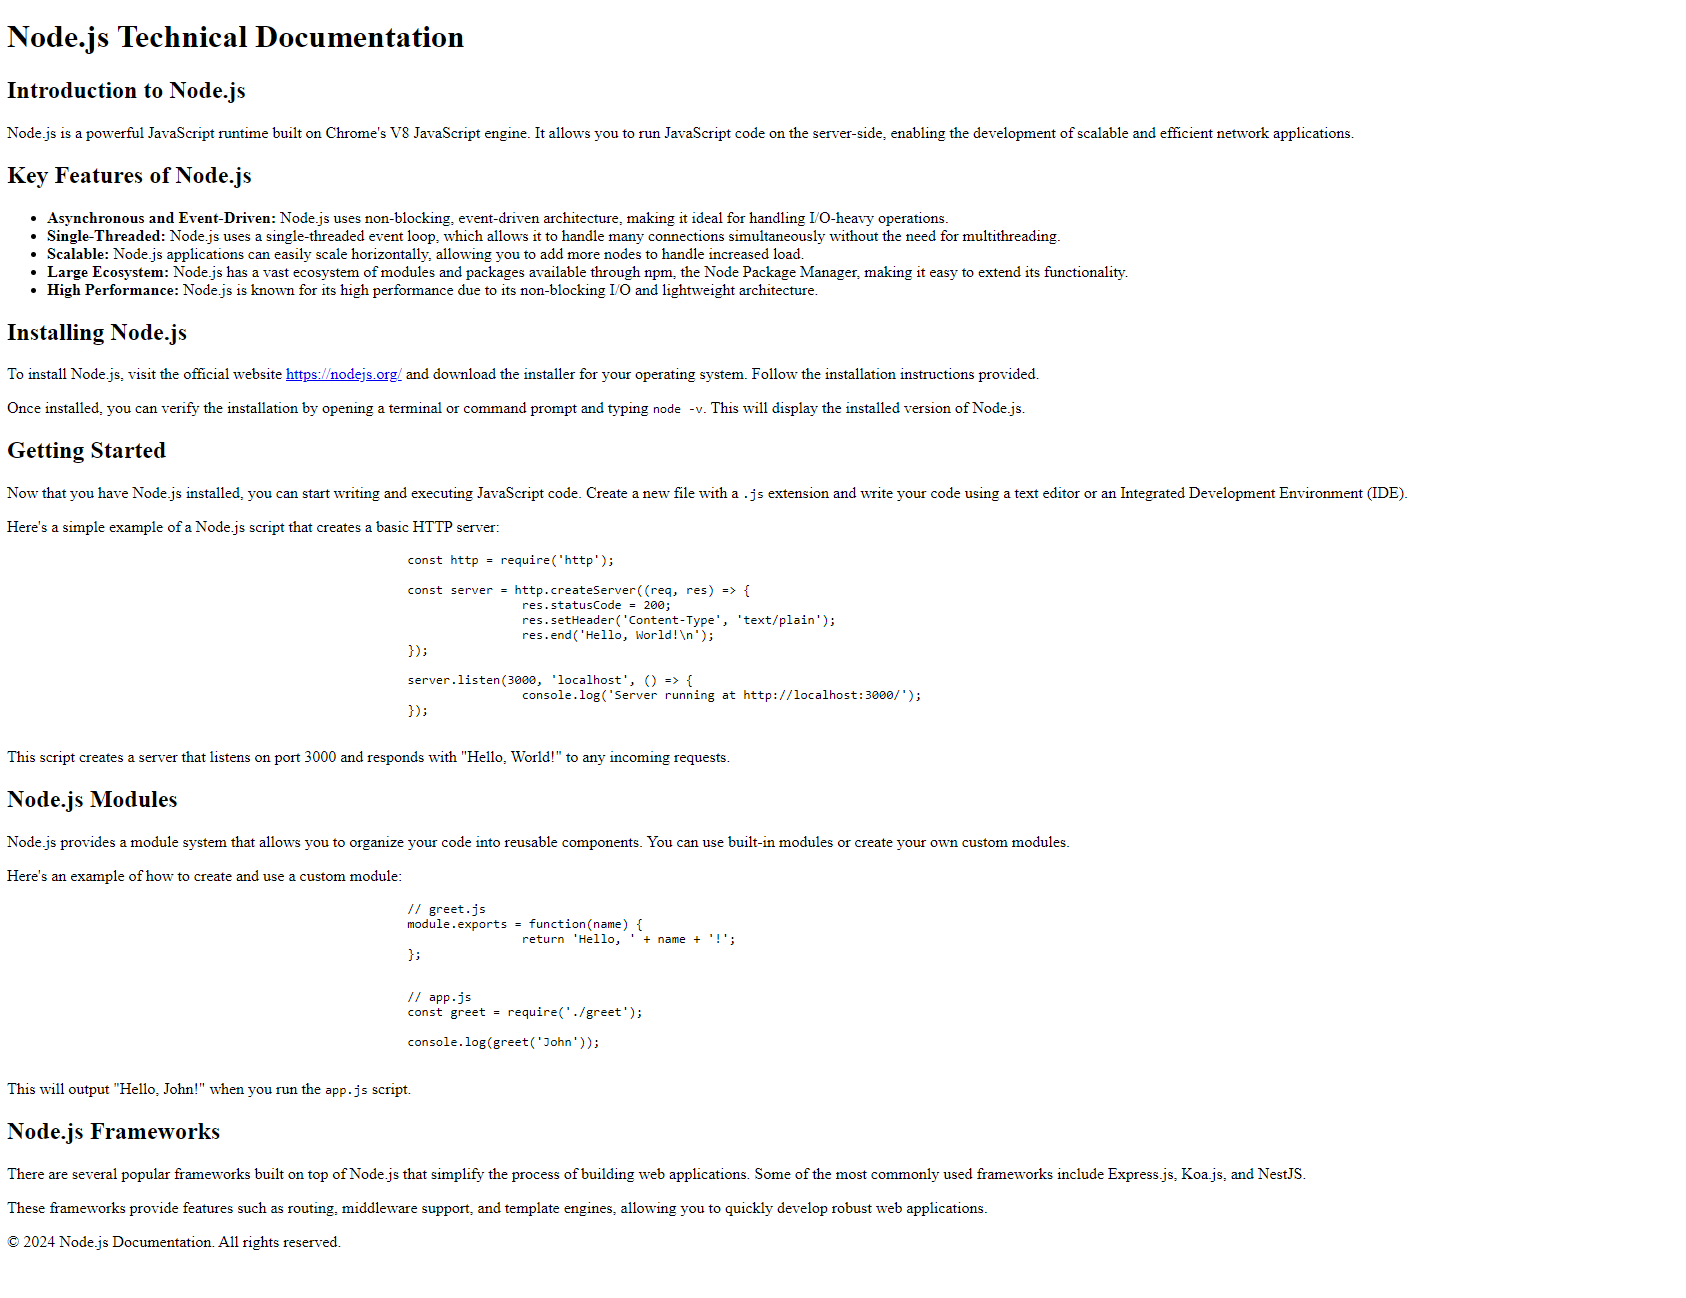
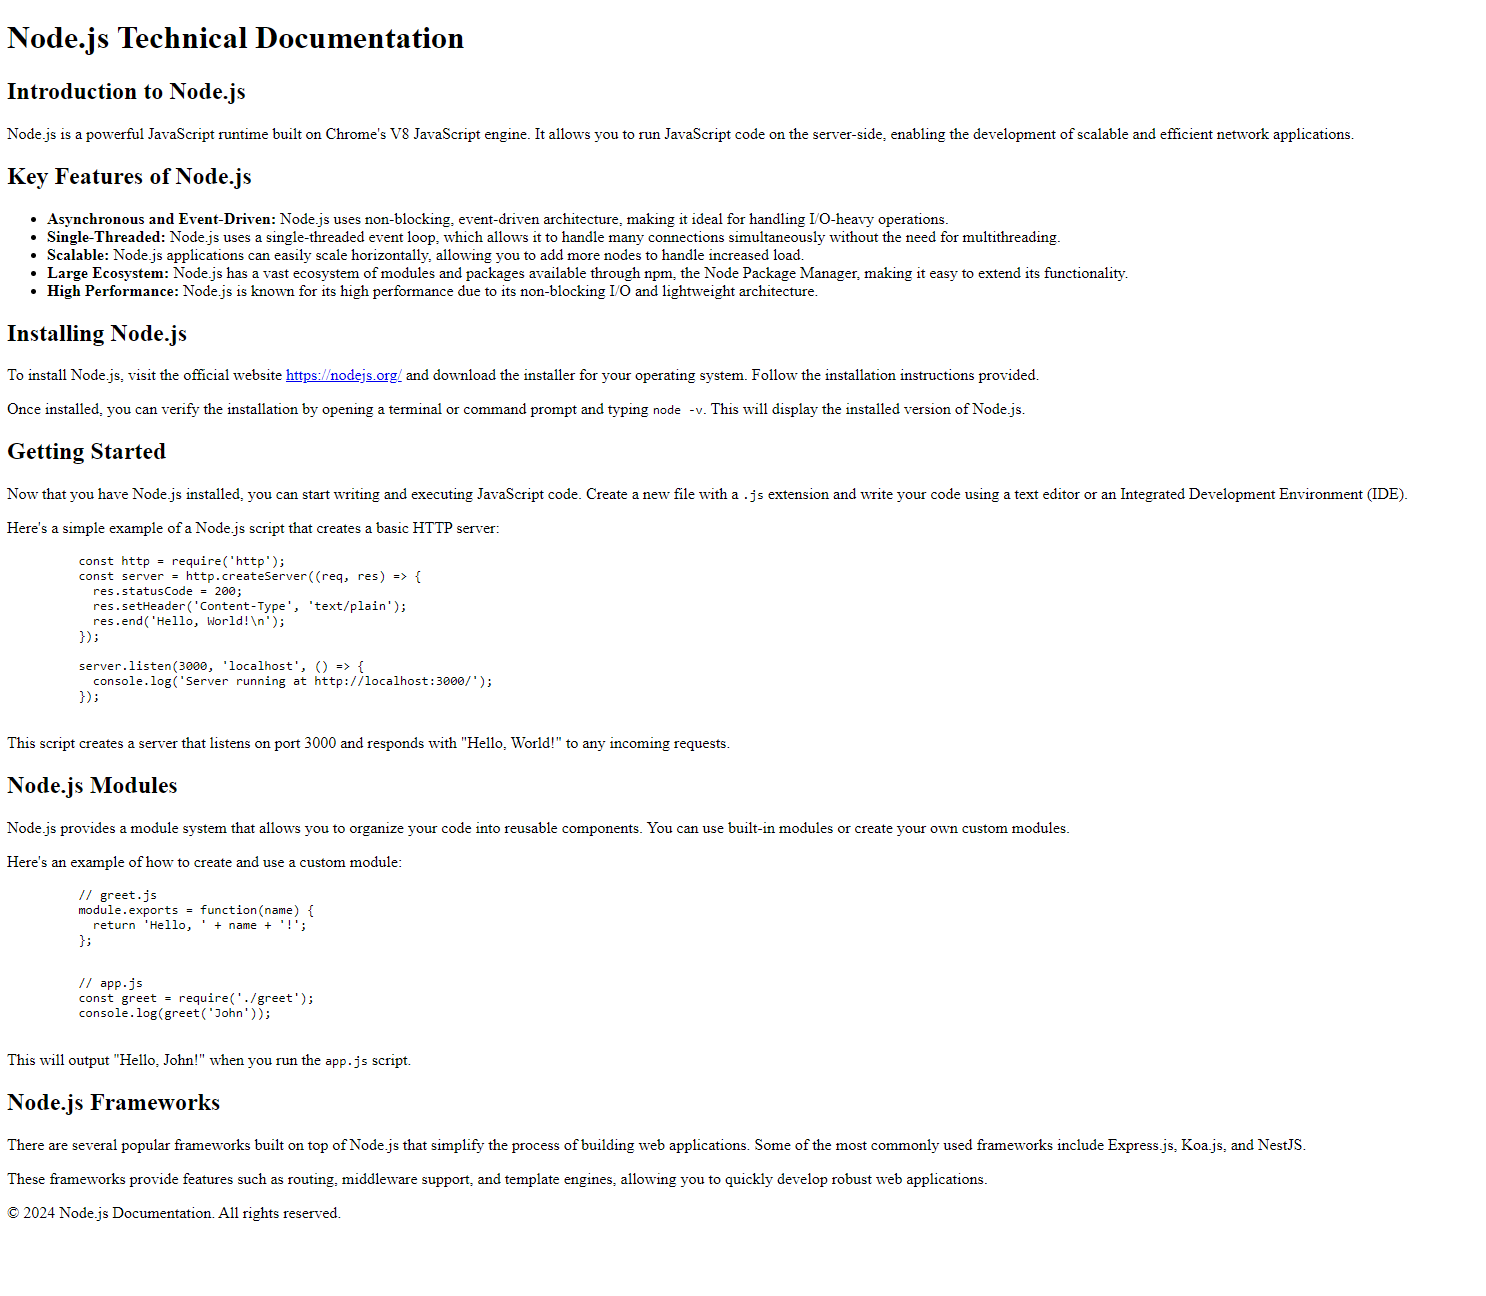
fixed all the mistakes

Changed region(s): [[0.0, 0.0, 0.9287, 0.5247], [0.0, 0.4938, 0.8668, 0.9877], [0.4643, 0.463, 0.4953, 0.4938]]

diff --git a/HTML projects/Survey Form/index.html b/HTML projects/Survey Form/index.html
@@ -1,77 +1,88 @@
 <!DOCTYPE html>
-<html>
+<html lang="en">
 <head>
-    <title>Survey Form</title>
+  <meta charset="UTF-8">
+  <meta name="viewport" content="width=device-width, initial-scale=1.0">
+  <!-- Title of the webpage -->
+  <title>Survey Form</title>
 </head>
 <body>
-    <h2>Survey Form</h2>
-    <form action="">
-      <label for="name">Full Name:</label>
-      <input type="text" id="name" name="name" required><br>
-      <br>
-      <label for="email">Email:</label>
-      <input type="email" id="email" name="email" required><br>
-      <br>
-      <label for="phone">Phone Number:</label>
-      <input type="tel" id="phone" name="phone" pattern="[0-9]{10}" required><br>
-      <br>
-      <label for="college">College Name:</label>
-      <input type="text" id="college" name="college" required><br>
-      <br>
-      <label for="branch">Branch of Study:</label>
-      <input type="text" id="branch" name="branch" required><br>
-      <br>
-      <label for="year">Year of Study:</label>
-      <select id="year" name="year" required>
-          <option value="">Select Year</option>
-          <option value="1">First Year</option>
-          <option value="2">Second Year</option>
-          <option value="3">Third Year</option>
-          <option value="4">Fourth Year</option>
-      </select><br>
-      <br>
-      <div>
-        <label>Languages and Frameworks known
-            <small>(Check all that apply)</small>
-        </label><br>
-        <br>
-        <!-- Input Type Checkbox -->
-        <label for="inp-1">
-            <input type="checkbox" name="inp">C
-              </input>
-          </label>
-        <label for="inp-2">
-            <input type="checkbox" name="inp">C++
-              </input>
-        </label>
-        <label for="inp-3">
-            <input type="checkbox" name="inp">Java
-              </input>
-        </label>
-        <label for="inp-4">
-            <input type="checkbox" name="inp">Python
-              </input>
-        </label><br>
-        <label for="inp-5">
-            <input type="checkbox" name="inp">JavaScript
-              </input>
-        </label>
-        <label for="inp-6">
-            <input type="checkbox" name="inp">React
-              </input>
-        </label>
-        <label for="inp-7">
-            <input type="checkbox" name="inp">Angular
-              </input>
-        </label>
-        <label for="inp-8">
-            <input type="checkbox" name="inp">Django
-              </input>
-        </label>
-    </div>
+  <!-- Heading for the survey form -->
+  <h2>Survey Form</h2>
+  
+  <!-- Form starts here -->
+  <form action="#">
+    <!-- Input field for full name with label -->
+    <label for="name">Full Name:</label>
+    <input type="text" id="name" name="name" required><br><br>
+    
+    <!-- Input field for email with label -->
+    <label for="email">Email:</label>
+    <input type="email" id="email" name="email" required><br><br>
+    
+    <!-- Input field for phone number with label -->
+    <label for="phone">Phone Number:</label>
+    <input type="tel" id="phone" name="phone" pattern="[0-9]{10}" required><br><br>
+    
+    <!-- Input field for college name with label -->
+    <label for="college">College Name:</label>
+    <input type="text" id="college" name="college" required><br><br>
+    
+    <!-- Input field for branch of study with label -->
+    <label for="branch">Branch of Study:</label>
+    <input type="text" id="branch" name="branch" required><br><br>
+    
+    <!-- Dropdown menu for selecting year of study -->
+    <label for="year">Year of Study:</label>
+    <select id="year" name="year" required>
+        <option value="">Select Year</option>
+        <option value="1">First Year</option>
+        <option value="2">Second Year</option>
+        <option value="3">Third Year</option>
+        <option value="4">Fourth Year</option>
+    </select><br><br>
+    
+    <!-- Checkbox section for selecting known languages and frameworks -->
+    <div>
+      <label>Languages and Frameworks known
+          <small>(Check all that apply)</small>
+      </label><br><br>
+      <!-- Checkbox options -->
+      <label for="inp-1">
+        <input type="checkbox" name="inp">C</input>
+      </label>
 
-    <br>
-      <input type="submit" value="Submit">
+      <label for="inp-2">
+        <input type="checkbox" name="inp">C++</input>
+      </label>
+
+      <label for="inp-3">
+        <input type="checkbox" name="inp">Java</input>
+      </label>
+
+      <label for="inp-4">
+        <input type="checkbox" name="inp">Python</input>
+      </label><br>
+
+      <label for="inp-5">
+        <input type="checkbox" name="inp">JavaScript</input>
+      </label>
+
+      <label for="inp-6">
+        <input type="checkbox" name="inp">React</input>
+      </label>
+
+      <label for="inp-7">
+        <input type="checkbox" name="inp">Angular</input>
+      </label>
+
+      <label for="inp-8">
+        <input type="checkbox" name="inp">Django</input>
+      </label>
+    </div><br>
+    
+    <!-- Submit button -->
+    <input type="submit" value="Submit">
   </form>
 </body>
 </html>

diff --git a/HTML projects/Technical Documentation Page/index.html b/HTML projects/Technical Documentation Page/index.html
@@ -3,13 +3,16 @@
   <head>
     <meta charset="UTF-8" />
     <meta name="viewport" content="width=device-width, initial-scale=1.0" />
-    <title>Document</title>
+    <title>Technical Documentation Page</title>
   </head>
   <body>
+
+    <!-- Heading Section -->
     <header>
       <h1>Node.js Technical Documentation</h1>
     </header>
 
+    <!-- Introduction Section -->
     <section>
       <h2>Introduction to Node.js</h2>
       <p>
@@ -19,8 +22,10 @@
       </p>
     </section>
 
+    <!-- Key Features Section-->
     <section>
       <h2>Key Features of Node.js</h2>
+      <!-- Unordered list of key features -->
       <ul>
         <li>
           <strong>Asynchronous and Event-Driven:</strong> Node.js uses
@@ -47,7 +52,8 @@
         </li>
       </ul>
     </section>
-
+    
+    <!-- Installation Section -->
     <section>
       <h2>Installing Node.js</h2>
       <p>
@@ -63,6 +69,7 @@
       </p>
     </section>
 
+    <!-- Getting Started Section -->
     <section>
       <h2>Getting Started</h2>
       <p>
@@ -77,19 +84,17 @@
       </p>
       <code>
         <pre>
-							const http = require('http');
+          const http = require('http');
+          const server = http.createServer((req, res) => {
+            res.statusCode = 200;
+            res.setHeader('Content-Type', 'text/plain');
+            res.end('Hello, World!\n');
+          });
 
-							const server = http.createServer((req, res) => {
-									res.statusCode = 200;
-									res.setHeader('Content-Type', 'text/plain');
-									res.end('Hello, World!\n');
-							});
-
-							server.listen(3000, 'localhost', () => {
-									console.log('Server running at http://localhost:3000/');
-							});
-					</pre
-        >
+          server.listen(3000, 'localhost', () => {
+            console.log('Server running at http://localhost:3000/');
+          });
+        </pre>
       </code>
       <p>
         This script creates a server that listens on port 3000 and responds with
@@ -97,6 +102,7 @@
       </p>
     </section>
 
+    <!-- Nodejs Modules Section -->
     <section>
       <h2>Node.js Modules</h2>
       <p>
@@ -107,21 +113,18 @@
       <p>Here's an example of how to create and use a custom module:</p>
       <code>
         <pre>
-							// greet.js
-							module.exports = function(name) {
-									return 'Hello, ' + name + '!';
-							};
-					</pre
-        >
+          // greet.js
+          module.exports = function(name) {
+            return 'Hello, ' + name + '!';
+          };
+					</pre>
       </code>
       <code>
         <pre>
-							// app.js
-							const greet = require('./greet');
-
-							console.log(greet('John'));
-					</pre
-        >
+          // app.js
+          const greet = require('./greet');
+          console.log(greet('John'));
+					</pre>
       </code>
       <p>
         This will output "Hello, John!" when you run the
@@ -129,6 +132,7 @@
       </p>
     </section>
 
+    <!-- Nodejs Frameworks Section -->
     <section>
       <h2>Node.js Frameworks</h2>
       <p>
@@ -143,6 +147,7 @@
       </p>
     </section>
 
+    <!-- Footer Section -->
     <footer>
       <p>&copy; 2024 Node.js Documentation. All rights reserved.</p>
     </footer>

diff --git a/HTML projects/Tribute Page/index.html b/HTML projects/Tribute Page/index.html
@@ -7,27 +7,26 @@
   </head>
 
   <body>
-    <main id="main">
+    <main>
       <!-- Title of the page -->
-      <h1 id="title">Subhas Chandra Bose</h1>
+      <h1>Subhas Chandra Bose</h1>
 
-      <div id="img">
+      <div>
         <!--Image of the Tribute Person-->
         <img
           src="https://i.pinimg.com/736x/cd/b4/ab/cdb4ab896bc779ae9378cc5078b40ff5.jpg"
-          id="image"
           alt="Error Loading Image"
           height="400px"
         />
         <br />
-        <small id="caption">
+        <small>
           Subhas Chandra Bose, the fearless freedom fighter, played a pivotal role in India’s struggle for independence. His unwavering commitment, militant approach, and formation of the Indian National Army (INA) continue to inspire generations. 
         </small>
       </div>
 
-      <div id="tribute-data">
+      <div >
         <!--Achievements and other details of the person-->
-        <h1 class="title-APJ">About the Legend</h1>
+        <h1>About the Legend</h1>
         <ul>
           <li>
             Subhas Chandra Bose was born on <strong>January 23, 1897, in Cuttack,

diff --git a/HTML projects/TimeTable html/index.html b/HTML projects/TimeTable html/index.html
@@ -5,14 +5,6 @@
   <meta charset="UTF-8">
   <meta name="viewport" content="width=device-width, initial-scale=1.0">
   <title>Weekly Timetable</title>
-  <style>
-    /* Styling for the table */
-    table,
-    th,
-    td {
-      border: 1px solid black;  /* Giving border for the table */
-    }
-  </style>
 </head>
 
 <body>

diff --git a/HTML projects/TimeTable html/README.md b/HTML projects/TimeTable html/README.md
@@ -23,8 +23,6 @@ The weekly timetable provides a visual representation of class schedules. It inc
 ## Structure
 The timetable is structured as an HTML table with rows and columns. Each row represents a day of the week, and each column represents a time slot. The subjects are placed within the appropriate cells.
 
-## Styling
-The timetable is styled using CSS. The table, header cells (`<th>`), and data cells (`<td>`) have borders to create a grid-like appearance.
 
 ## Output
 ![image](./output.png)

diff --git a/HTML projects/Technical Documentation Page/README.md b/HTML projects/Technical Documentation Page/README.md
@@ -24,4 +24,4 @@ To view the project, open the HTML file in a web browser.
 
 ## Output
 
-![image](./output.png)
+![image](./Output.png)
